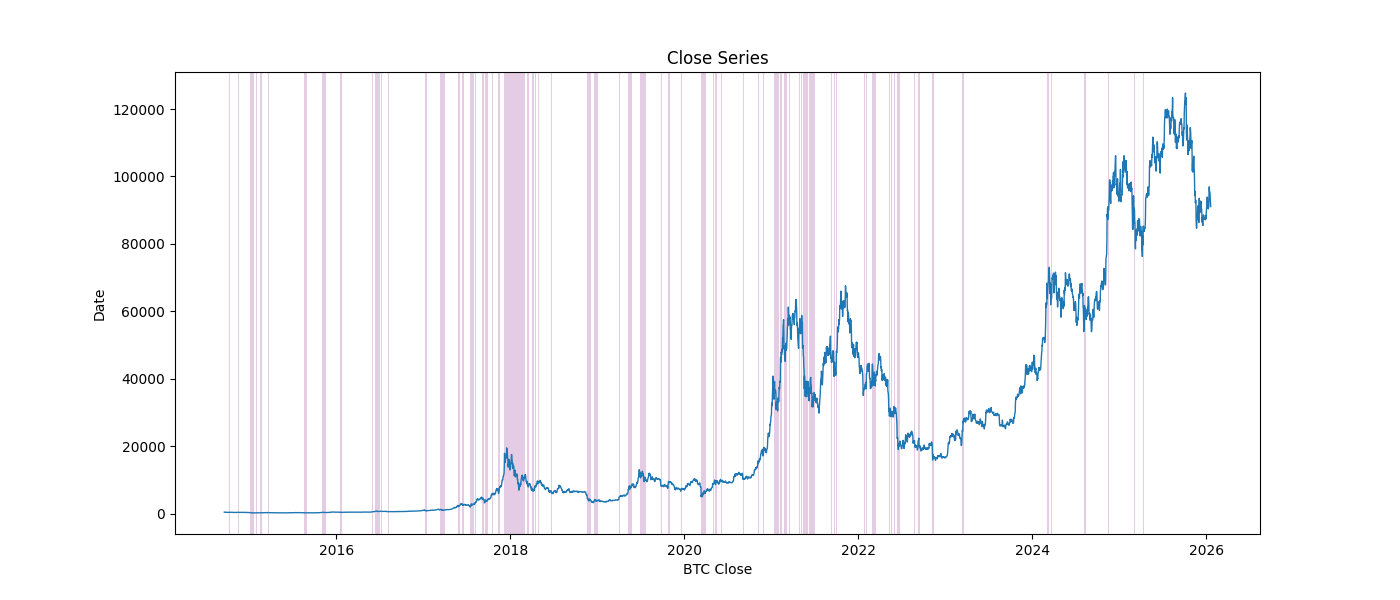
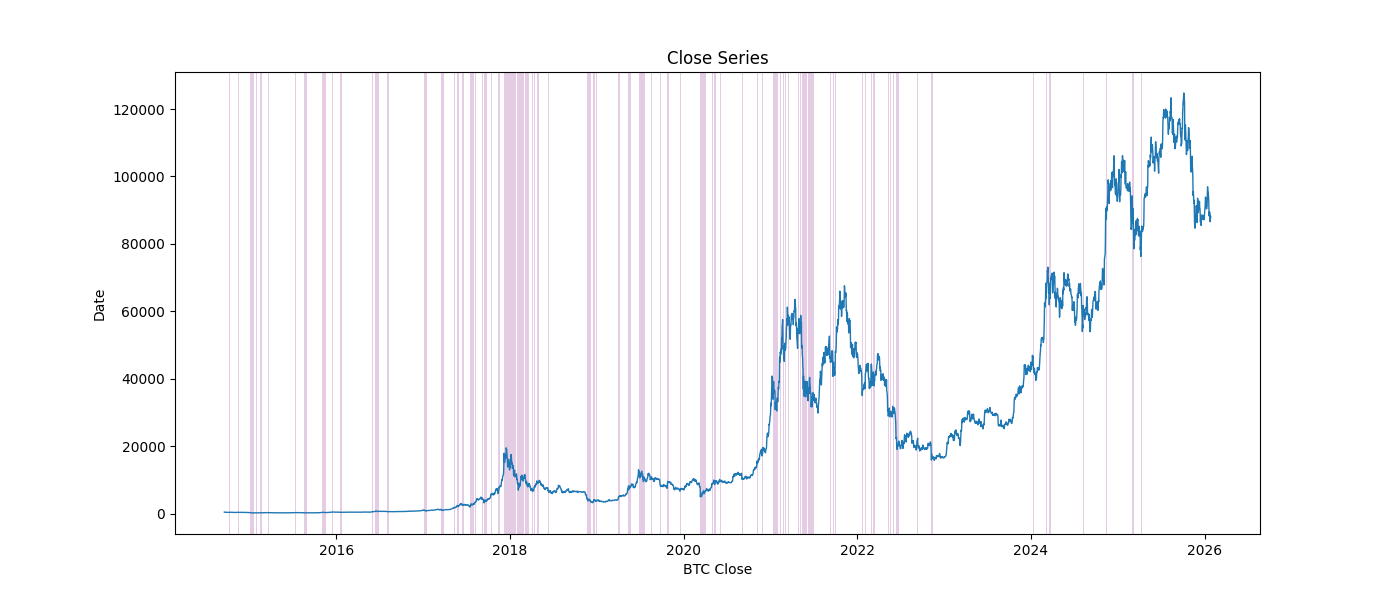
visualised btc close with signal shading and added actionable output

Changed region(s): [[0.3071, 0.12, 0.8907, 0.93], [0.8293, 0.9, 0.8907, 0.93], [0.3379, 0.9, 0.3686, 0.93]]

diff --git a/main.py b/main.py
@@ -140,27 +140,27 @@ def main():
     analysis_30d = btc_hist.dropna(subset=['Regime', 'Fwd_30D'])
     
     summary_7d = analysis_7d.groupby('Regime')['Fwd_7D'].agg(
-        mean='mean',
-        median='median',
-        std='std',
+        mean="mean",
+        median="median",
+        std="std",
         win_rate=lambda x: (x > 0).mean(),
-        count='count'
+        count="count"
     )
 
     summary_14d = analysis_14d.groupby('Regime')['Fwd_14D'].agg(
-        mean='mean',
-        median='median',
-        std='std',
+        mean="mean",
+        median="median",
+        std="std",
         win_rate=lambda x: (x > 0).mean(),
-        count='count'
+        count="count"
     )
 
     summary_30d = analysis_30d.groupby('Regime')['Fwd_30D'].agg(
-        mean='mean',
-        median='median',
-        std='std',
+        mean="mean",
+        median="median",
+        std="std",
         win_rate=lambda x: (x > 0).mean(),
-        count='count'
+        count="count"
     )
 
     print(summary_7d)
@@ -174,6 +174,114 @@ def main():
     plt.show()
     
     ## Regime to Tradeable Stratgey
+    # Choose horizon to trade on
+    HORIZON = '7D'
+
+    if HORIZON == "7D":
+        summary = summary_7d.copy()
+        fwd_col = "Fwd_7D"
+    elif HORIZON == "14D":
+        summary = summary_14d.copy()
+        fwd_col = "Fwd_14D"
+    elif HORIZON == "30D":
+        summary = summary_30d.copy()
+        fwd_col = "Fwd_30D"
+    else:
+        raise ValueError("Invalid Horizon")
     
+    # risk adjusted scoring
+    # Sharpe like score
+    summary["risk_adjusted_score"] = summary["mean"] / summary["std"]
+
+    # confidence weighting
+    summary["confidence_weight"] = np.log(summary["count"])
+
+    # final score
+    summary["final_score"] = summary["risk_adjusted_score"] * summary["confidence_weight"]
+
+    print(summary[["mean", "std", "count", "final_score"]])
+
+    # converting scores to signals
+
+    high_thresh = summary["final_score"].quantile(0.66)
+    low_thresh = summary["final_score"].quantile(0.33)
+
+    def score_to_signal(score):
+        if score >= high_thresh:
+            return "RISK_ON"
+        elif score <= low_thresh:
+            return "RISK_OFF"
+        else:
+            return "NEUTRAL"
+        
+    summary["Signal"] = summary["final_score"].apply(score_to_signal)
+
+    print(summary[["final_score", "Signal"]])
+
+    # mapping signals back to time series
+
+    regime_to_signal = summary["Signal"].to_dict()
+    btc_hist["Signal"] = btc_hist["Regime"].map(regime_to_signal)
+
+    print(btc_hist["Signal"].value_counts(normalize=True))
+
+    # forward performance by signal (checks)
+
+    signal_perf = (
+        btc_hist
+        .dropna(subset=[fwd_col, "Signal"])
+        .groupby("Signal")[fwd_col]
+        .agg(
+            mean="mean",
+            median="median",
+            std="std",
+            win_rate=lambda x: (x>0).mean(),
+            count="count"
+        )
+    )
+
+    print(signal_perf)
+
+    # visualising signal shading
+
+    signal_colours = {
+        "RISK_ON": "green",
+        "NEUTRAL": "grey",
+        "RISK_OFF": "red"
+    }
+
+    fig, ax = plt.subplots(figsize=(14, 6))
+    ax.plot(btc_hist.index, btc_hist["Close"], linewidth=1)
+    ax.set_title(f"BTC Close with Signal Shading ({HORIZON})")
+    ax.set_xlabel("Date")
+    ax.set_ylabel("BTC Close")
+
+    signal_series = btc_hist["Signal"].fillna("NONE")
+    change = signal_series.ne(signal_series.shift()).cumsum()
+    groups = btc_hist.groupby(change)
+
+    for _, grp in groups:
+        sig = grp["Signal"].iloc[0]
+
+        if sig not in signal_colours:
+            continue
+
+        ax.axvspan(
+            grp.index[0],
+            grp.index[-1],
+            facecolor=signal_colours[sig],
+            alpha=0.12
+        )
+
+    plt.savefig(f"Plots/BTC_Signal_Shaded_{HORIZON}.png")
+    plt.clf()
+
+    # actionable output
+
+    latest = btc_hist.dropna(subset=["Signal"]).iloc[-1]
+
+    print("Date:", latest.name.date())
+    print("Regime:", latest["Regime"])
+    print("Signal:", latest["Signal"])
 
 main()
